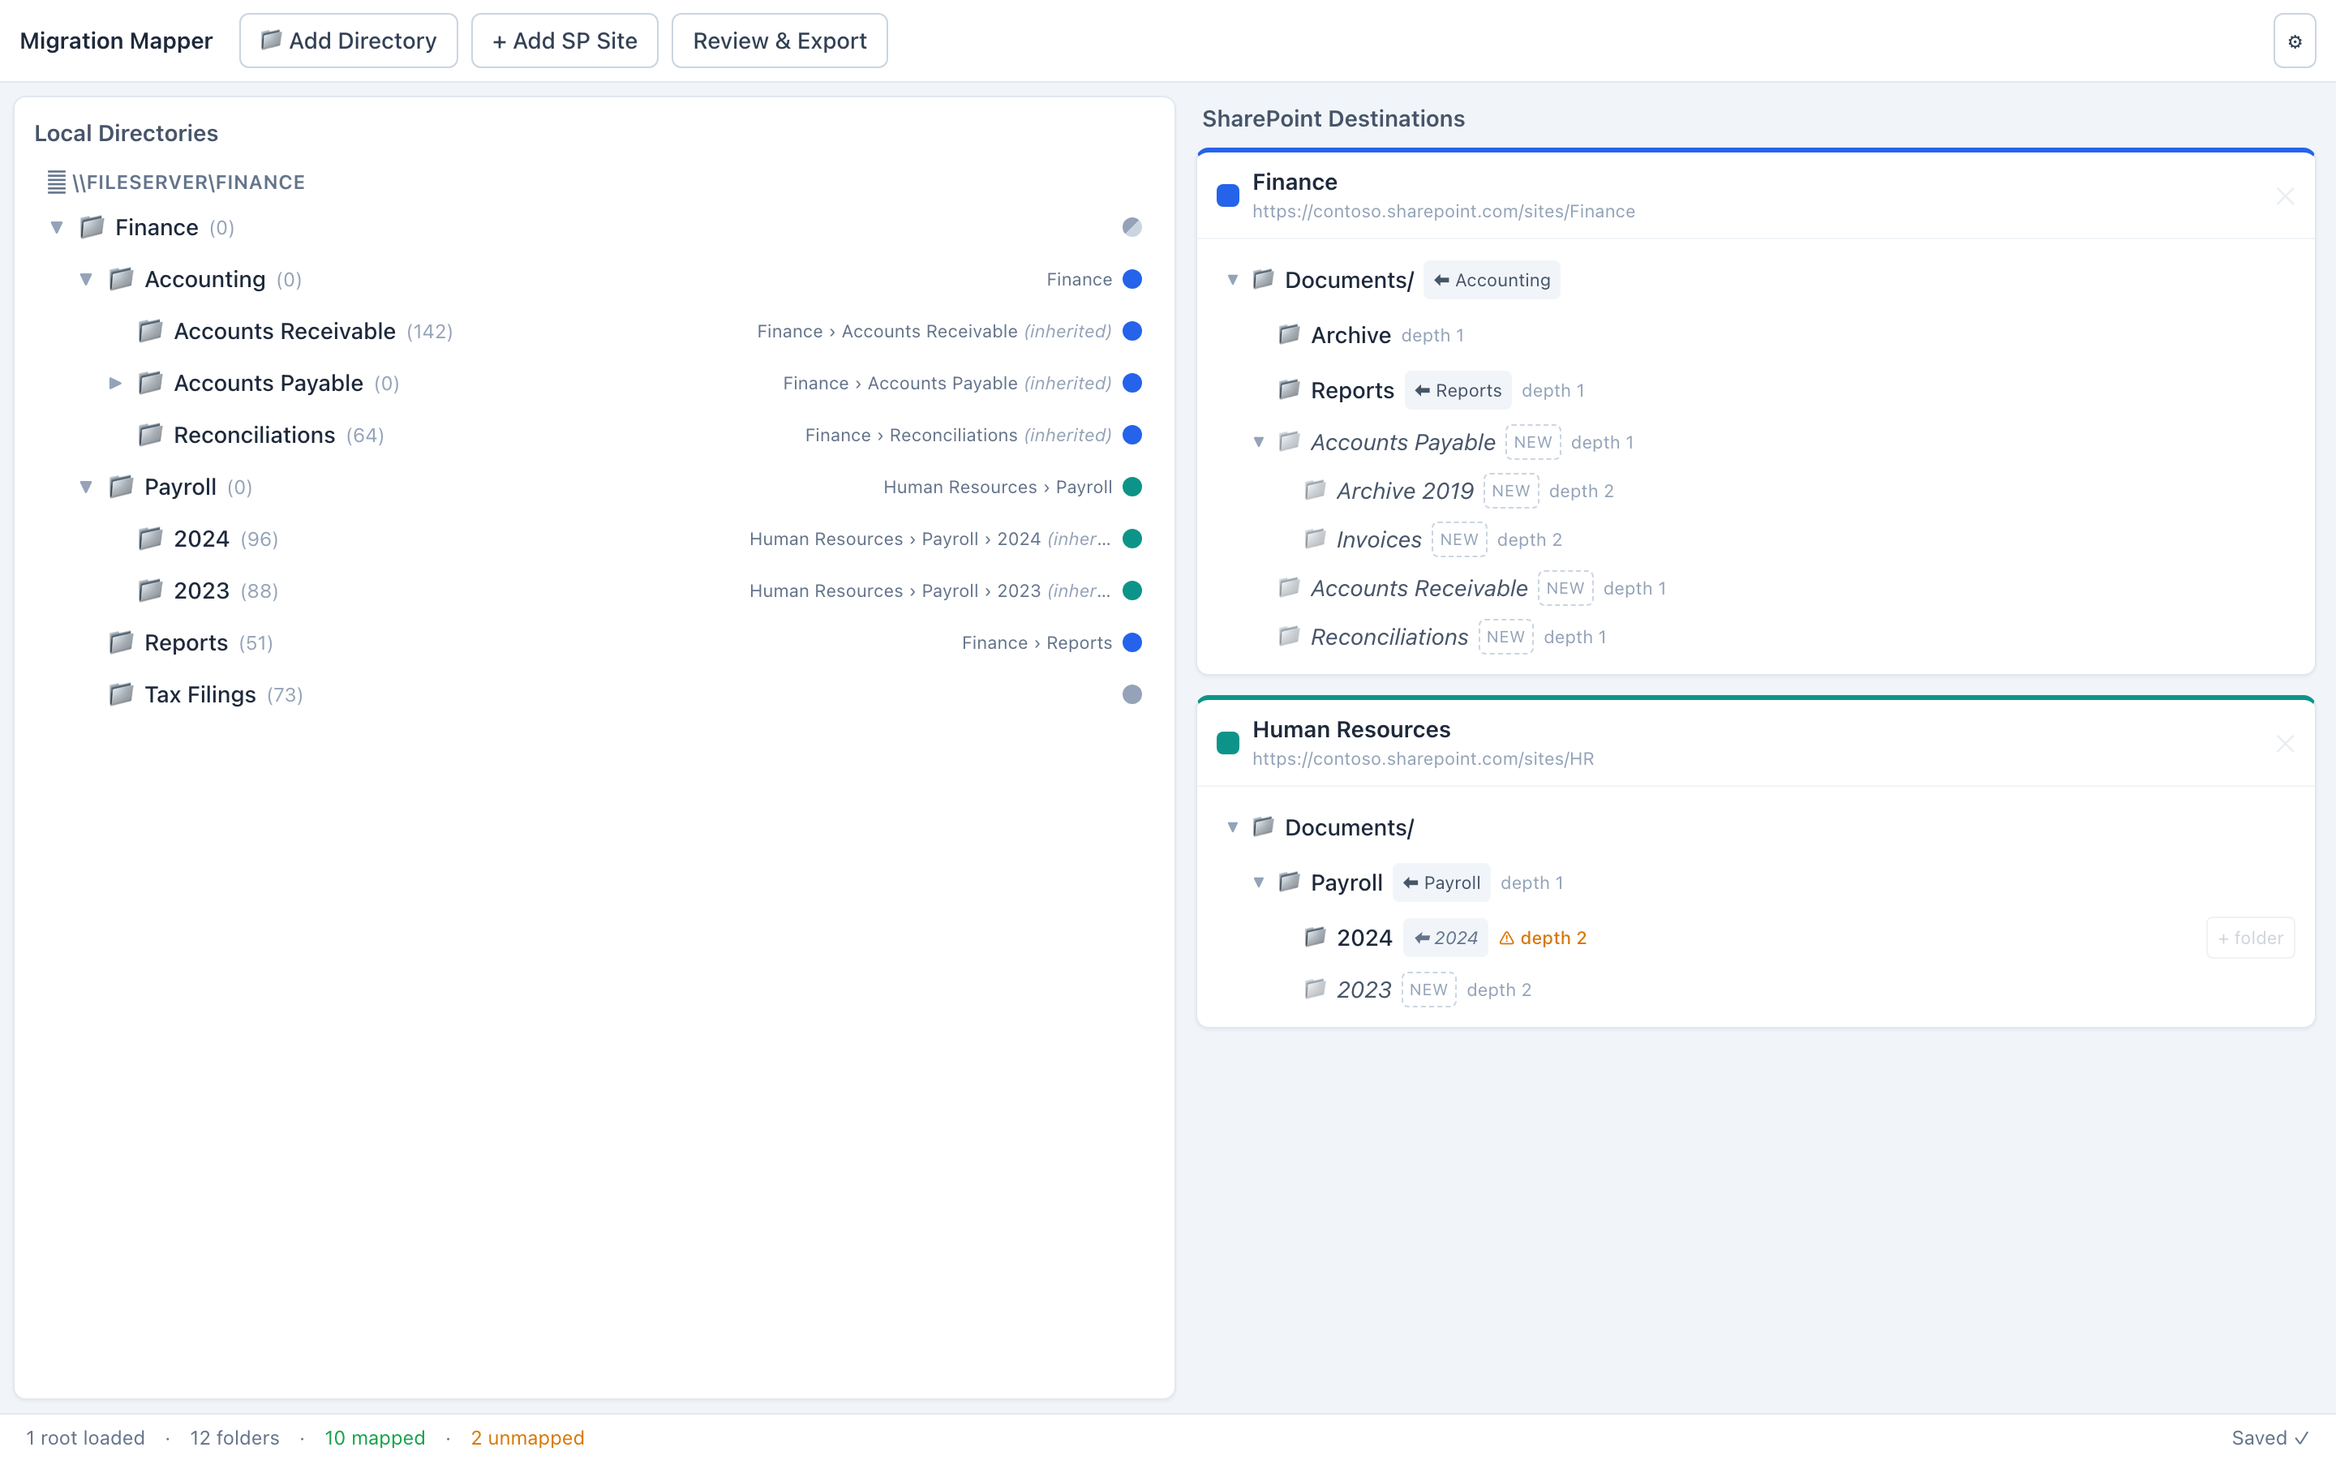
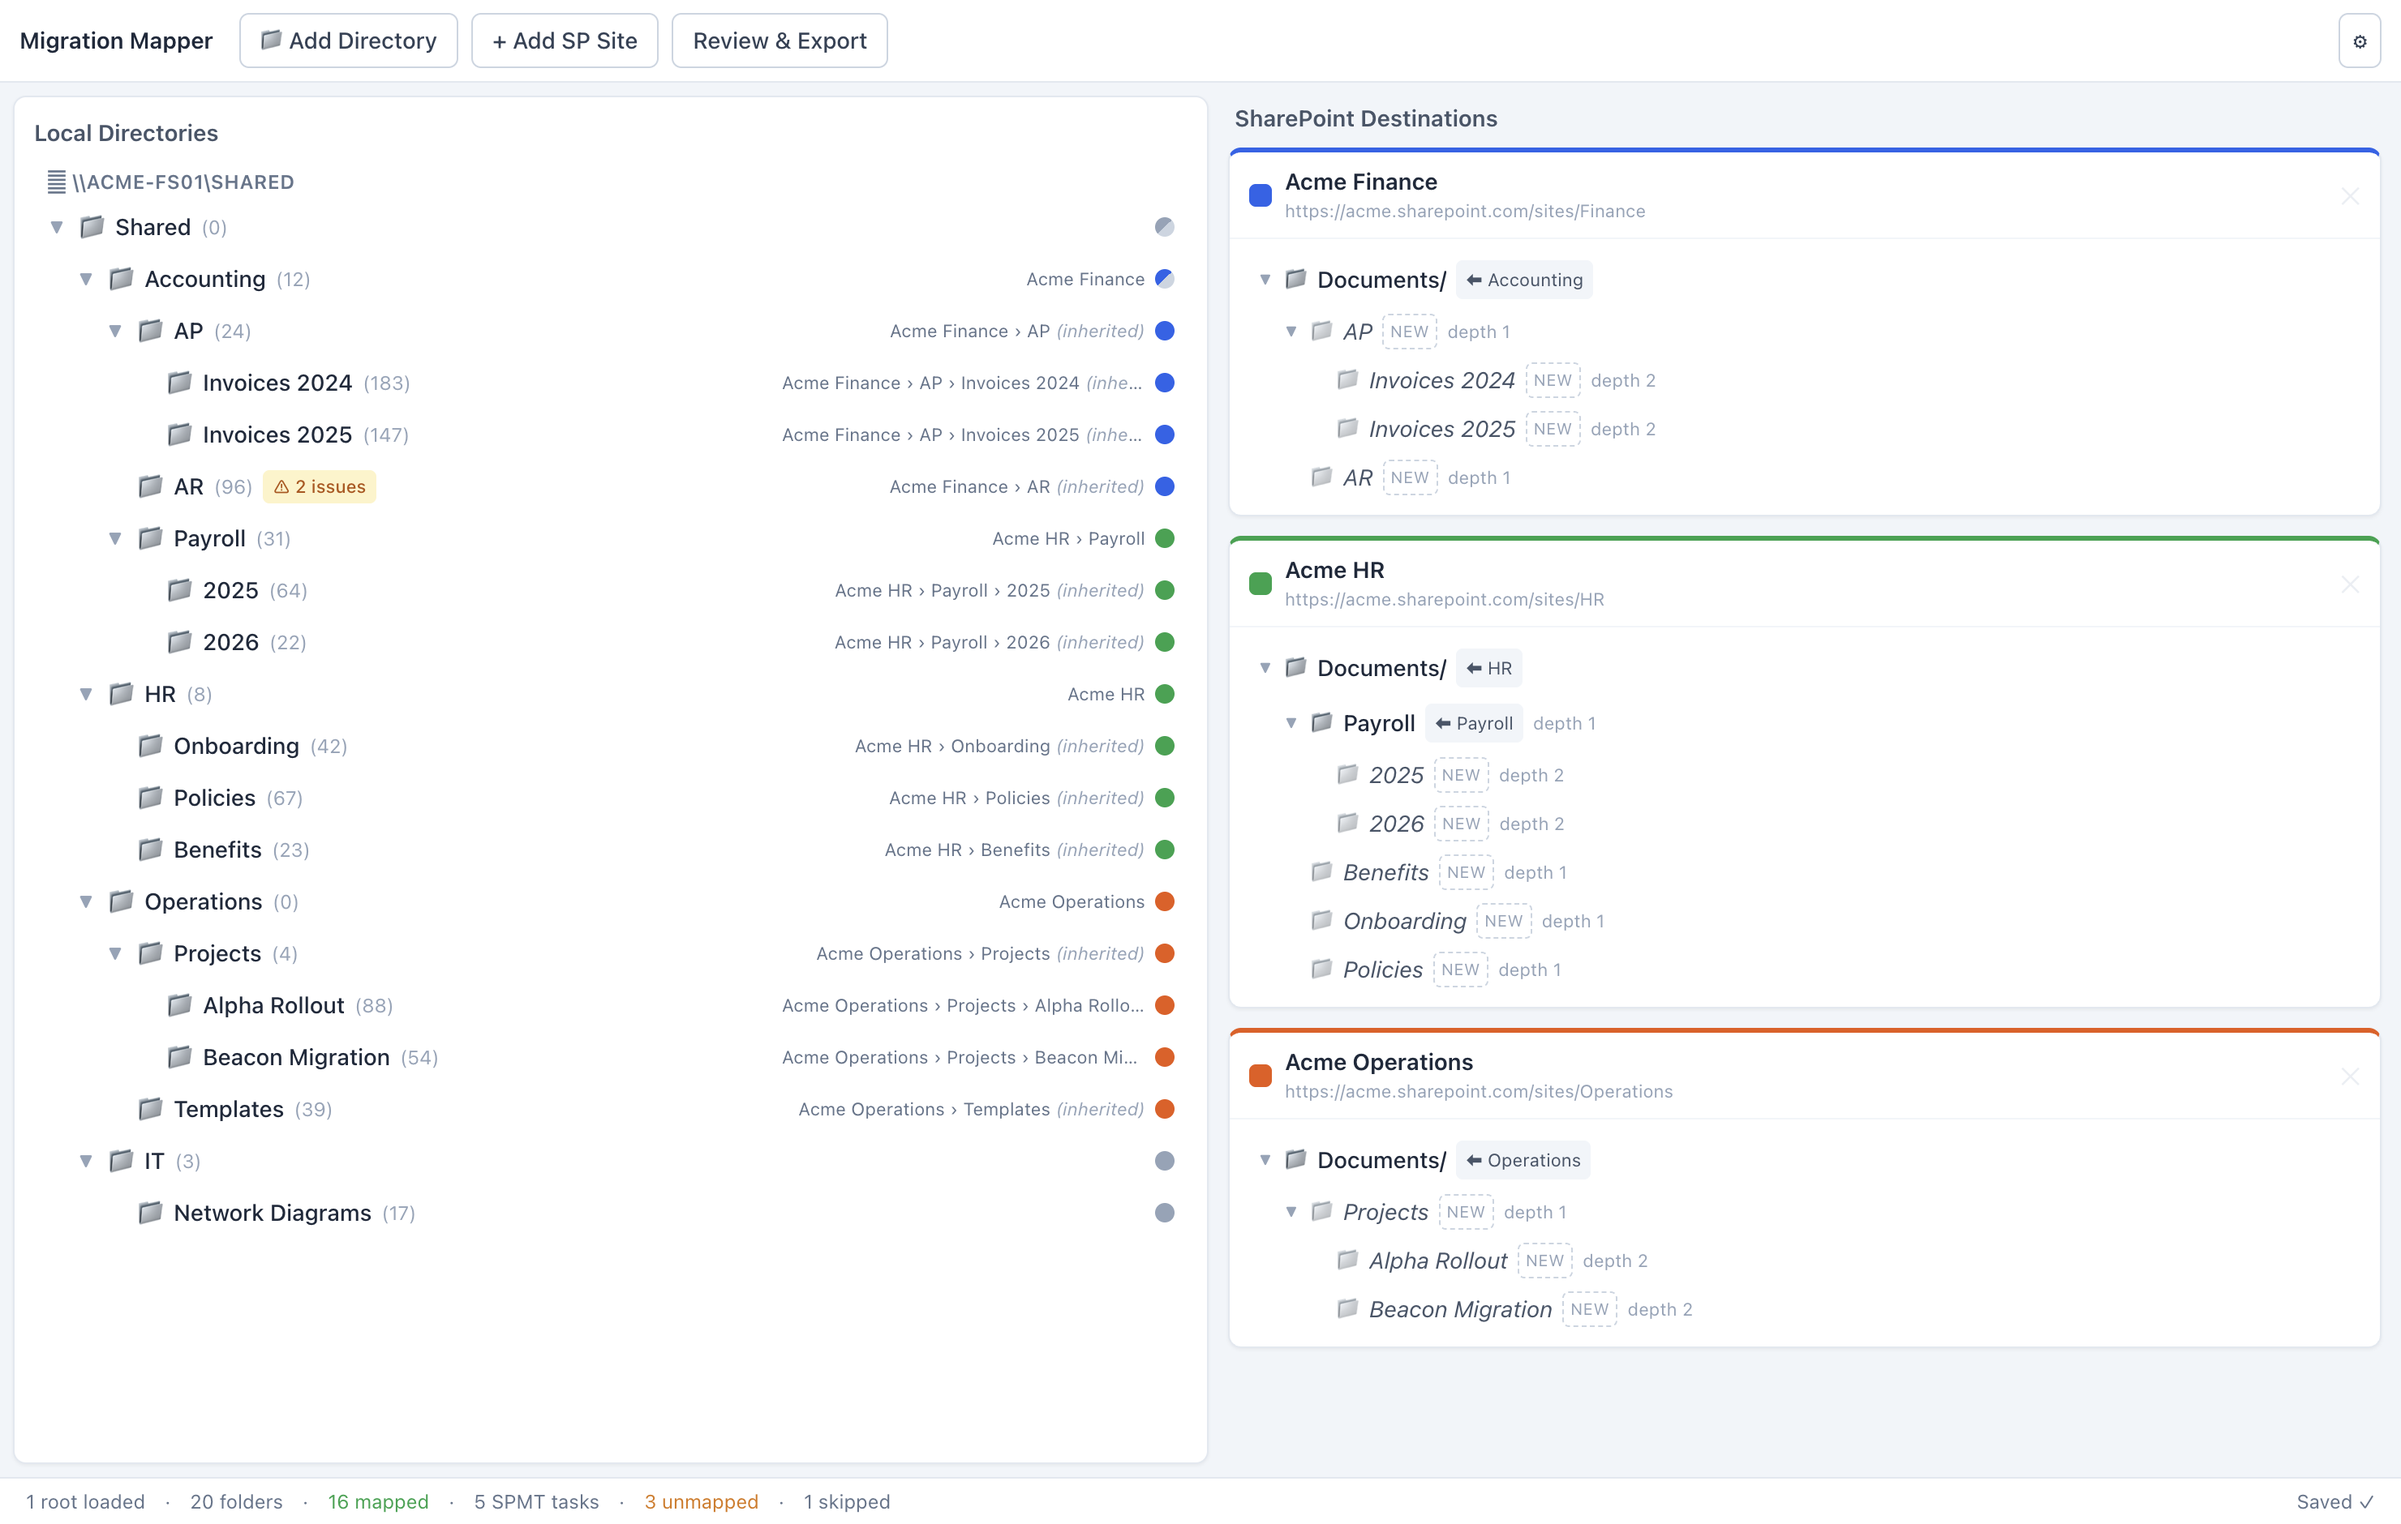
Recapture README screenshots from the v0.2 build
Both screenshots were taken before the export rework. The new captures show
the current UI against a realistic demo share (\\ACME-FS01\Shared): the
mapping view with inheritance, a divergent remap, and live destination
previews; and the Review screen with the SPMT task count, the split-folder
files-not-covered acknowledgment gate, ineligible-file acks, and
/Shared Documents/ destination URLs. Removes the interim "predates v0.2"
caption.

diff --git a/README.md b/README.md
@@ -56,8 +56,6 @@ A pre-flight summary: what's mapped, inherited, unmapped, and skipped; ineligibl
 
 ![Review and export](assets/review-export.png)
 
-*This screenshot predates the v0.2 export rework — current builds additionally show the SPMT task count, `/Shared Documents/` destination URLs, and the split-folder / conflict / tenant-domain gating sections.*
-
 ## How it works
 
 ### The mapping model
